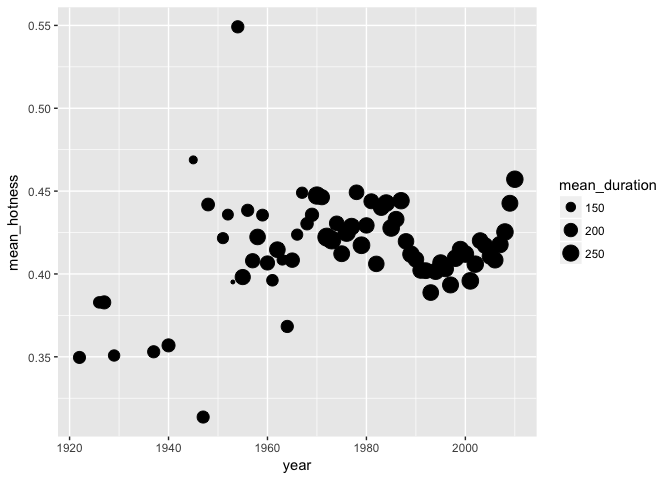
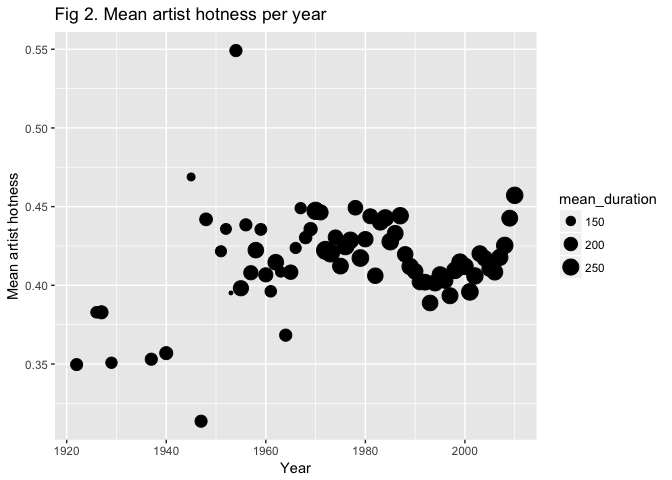
figures and more

diff --git a/hw05/factor_figure_management_hw05.md b/hw05/factor_figure_management_hw05.md
@@ -449,7 +449,8 @@ Now, I start exploring a first basic plot...
 ``` r
 fig1_means <- means_by_year %>% 
   ggplot(aes(year, mean_hotness)) +
-  geom_point(aes(size = mean_duration))
+  geom_point(aes(size = mean_duration)) +
+  labs(title = "Fig 2. Mean artist hotness per year", x = "Year", y = "Mean artist hotness")
 fig1_means
 ```
 
@@ -478,6 +479,19 @@ fig2_means
 
 Writing figures to file
 =======================
+
+**Objective**: Use ggsave() to explicitly save a plot to file. Then use `![Alt text](/path/to/img.png)` to load and embed it in your report. You can play around with various options
+
+**Process**: I used `ggsave` to save the previous two plots I did, one with a png extension and the other with pdf extension, also changing their sizes a bit. Also I specified the plot object to save...
+
+``` r
+ggsave("figure1.png", plot = fig1_means, width = 6, height = 4)
+ggsave("figure2.pdf", plot = fig2_means, width = 6, height = 6)
+```
+
+Now, I will read back the second plot
+
+\[Figure 2\](
 
 Clean up your repo!
 ===================
